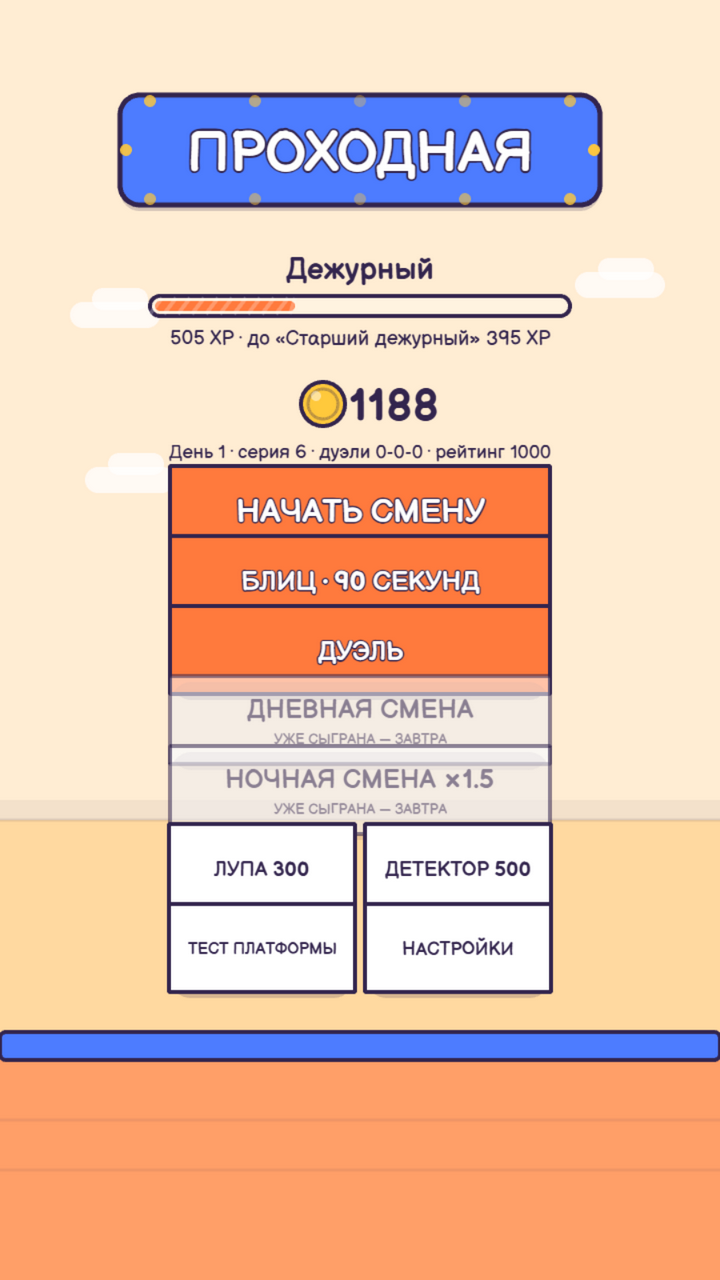
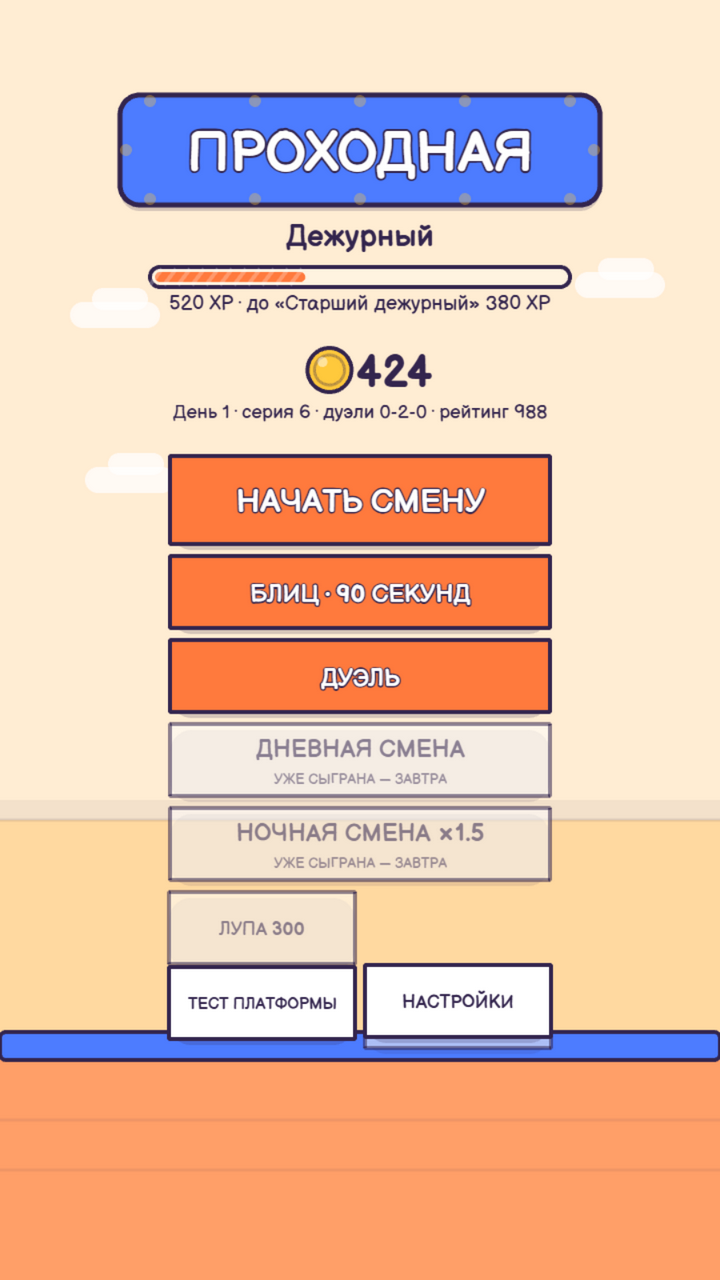
перекладка кабинета: ровная сетка рядов без наездов
Верхняя часть компактнее (звание/XP/жетоны/статистика), все вторичные кнопки 72px с зазорами 12px, Лупа и Детектор выровнены в один ряд с Тестом/Настройками. Обновлён скриншот README.

diff --git a/src/scenes/MenuScene.ts b/src/scenes/MenuScene.ts
@@ -67,7 +67,7 @@ export class MenuScene extends Phaser.Scene {
 
     // Звание + XP-бар с полосатой заливкой (спека §4.6)
     this.add
-      .text(width / 2, 268, rank.title, {
+      .text(width / 2, 235, rank.title, {
         fontFamily: FONT,
         fontSize: '30px',
         color: INK_HEX,
@@ -77,7 +77,7 @@ export class MenuScene extends Phaser.Scene {
 
     const barW = 420;
     const barX = width / 2 - barW / 2;
-    const barY = 296;
+    const barY = 267;
     const bar = this.add.graphics();
     bar.fillStyle(THEME.NICHE, 1);
     bar.fillRoundedRect(barX, barY, barW, 20, 10);
@@ -96,7 +96,7 @@ export class MenuScene extends Phaser.Scene {
         }
       }
       this.add
-        .text(width / 2, 338, `${s.xp} XP · до «${BALANCE.ranks[rank.index + 1].title}» ${rank.nextXp - s.xp} XP`, {
+        .text(width / 2, 303, `${s.xp} XP · до «${BALANCE.ranks[rank.index + 1].title}» ${rank.nextXp - s.xp} XP`, {
           fontFamily: FONT,
           fontSize: '20px',
           color: INK_HEX,
@@ -104,7 +104,7 @@ export class MenuScene extends Phaser.Scene {
         .setOrigin(0.5);
     } else {
       this.add
-        .text(width / 2, 338, `${s.xp} XP · максимальное звание`, {
+        .text(width / 2, 303, `${s.xp} XP · максимальное звание`, {
           fontFamily: FONT,
           fontSize: '20px',
           color: INK_HEX,
@@ -114,7 +114,7 @@ export class MenuScene extends Phaser.Scene {
 
     // Жетоны: иконка-монета с бликом + число
     const tokens = this.add
-      .text(width / 2 + 34, 404, `${s.tokens}`, {
+      .text(width / 2 + 34, 370, `${s.tokens}`, {
         fontFamily: FONT,
         fontSize: '44px',
         color: INK_HEX,
@@ -122,7 +122,7 @@ export class MenuScene extends Phaser.Scene {
       })
       .setOrigin(0.5);
     const coin = this.add.graphics();
-    coin.setPosition(width / 2 + 8 - tokens.width / 2, 404);
+    coin.setPosition(width / 2 + 8 - tokens.width / 2, 370);
     coin.fillStyle(THEME.GOLD, 1);
     coin.fillCircle(0, 0, 22);
     coin.lineStyle(4, THEME.INK, 1);
@@ -136,7 +136,7 @@ export class MenuScene extends Phaser.Scene {
     this.add
       .text(
         width / 2,
-        452,
+        412,
         `День ${sessionToday()} · серия ${s.bestStreak} · дуэли ${mp.duelWins}-${mp.duelLosses}-${mp.duelDraws} · рейтинг ${mp.duelRating}`,
         { fontFamily: FONT, fontSize: '19px', color: INK_HEX },
       )
@@ -158,7 +158,7 @@ export class MenuScene extends Phaser.Scene {
         y: 510,
         alpha: 1,
         make: () =>
-          makeButton(this, width / 2, 510, shiftLabel, () => this.scene.start('Game'), {
+          makeButton(this, width / 2, 500, shiftLabel, () => this.scene.start('Game'), {
             color: THEME.ACCENT,
             width: 380,
           }),
@@ -167,20 +167,22 @@ export class MenuScene extends Phaser.Scene {
         y: 580,
         alpha: 1,
         make: () =>
-          makeButton(this, width / 2, 580, 'Блиц · 90 секунд', () => this.startBlitz(), {
+          makeButton(this, width / 2, 592, 'Блиц · 90 секунд', () => this.startBlitz(), {
             color: THEME.ACCENT,
             width: 380,
-            fontSize: 26,
+            height: 72,
+            fontSize: 24,
           }),
       },
       {
         y: 650,
         alpha: 1,
         make: () =>
-          makeButton(this, width / 2, 650, 'Дуэль', () => void this.startDuel(), {
+          makeButton(this, width / 2, 676, 'Дуэль', () => void this.startDuel(), {
             color: THEME.ACCENT,
             width: 380,
-            fontSize: 26,
+            height: 72,
+            fontSize: 24,
           }),
       },
       {
@@ -190,13 +192,14 @@ export class MenuScene extends Phaser.Scene {
           makeButton(
             this,
             width / 2,
-            720,
+            760,
             'Дневная смена',
             () => this.startDaily(),
             {
               secondary: true,
               width: 380,
-              fontSize: 26,
+              height: 72,
+              fontSize: 24,
               subtitle: !unlocked
                 ? 'со звания Дежурный'
                 : dailyPlayed
@@ -212,13 +215,14 @@ export class MenuScene extends Phaser.Scene {
           makeButton(
             this,
             width / 2,
-            790,
+            844,
             'Ночная смена ×1.5',
             () => this.startNight(),
             {
               secondary: true,
               width: 380,
-              fontSize: 26,
+              height: 72,
+              fontSize: 24,
               subtitle: !unlocked
                 ? 'со звания Дежурный'
                 : nightPlayed
@@ -231,10 +235,11 @@ export class MenuScene extends Phaser.Scene {
         y: 868,
         alpha: s.tools.lens || s.tokens < BALANCE.lensPrice ? 0.55 : 1,
         make: () =>
-          makeButton(this, width / 2 - 98, 868, `Лупа ${BALANCE.lensPrice}`, () => this.buy('lens'), {
+          makeButton(this, width / 2 - 98, 928, `Лупа ${BALANCE.lensPrice}`, () => this.buy('lens'), {
             secondary: true,
             width: 186,
-            fontSize: 20,
+            height: 72,
+            fontSize: 18,
           }),
       },
       {
@@ -244,19 +249,20 @@ export class MenuScene extends Phaser.Scene {
           makeButton(
             this,
             width / 2 + 98,
-            868,
+            1012,
             `Детектор ${BALANCE.detectorPrice}`,
             () => this.buy('detector'),
-            { secondary: true, width: 186, fontSize: 20 },
+            { secondary: true, width: 186, height: 72, fontSize: 18 },
           ),
       },
       {
-        y: 948,
+        y: 1096,
         alpha: 1,
         make: () =>
-          makeButton(this, width / 2 - 98, 948, 'Тест платформы', () => this.scene.start('PlatformTest'), {
+          makeButton(this, width / 2 - 98, 1004, 'Тест платформы', () => this.scene.start('PlatformTest'), {
             secondary: true,
             width: 186,
+            height: 72,
             fontSize: 18,
           }),
       },
@@ -264,9 +270,10 @@ export class MenuScene extends Phaser.Scene {
         y: 948,
         alpha: 1,
         make: () =>
-          makeButton(this, width / 2 + 98, 948, 'Настройки', () => this.showSettings(), {
+          makeButton(this, width / 2 + 98, 1004, 'Настройки', () => this.showSettings(), {
             secondary: true,
             width: 186,
+            height: 72,
             fontSize: 18,
           }),
       },
